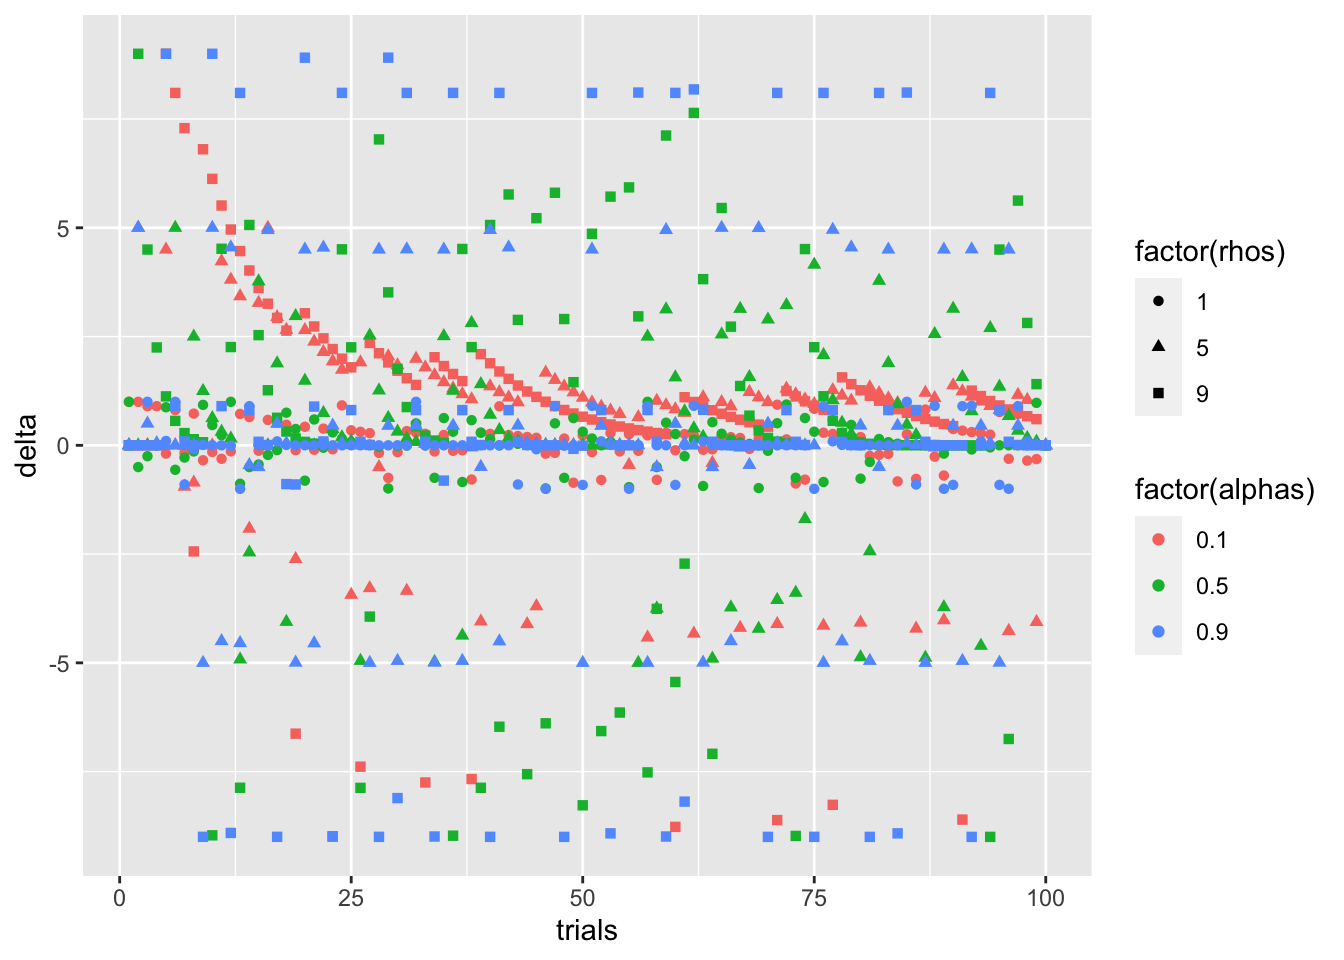
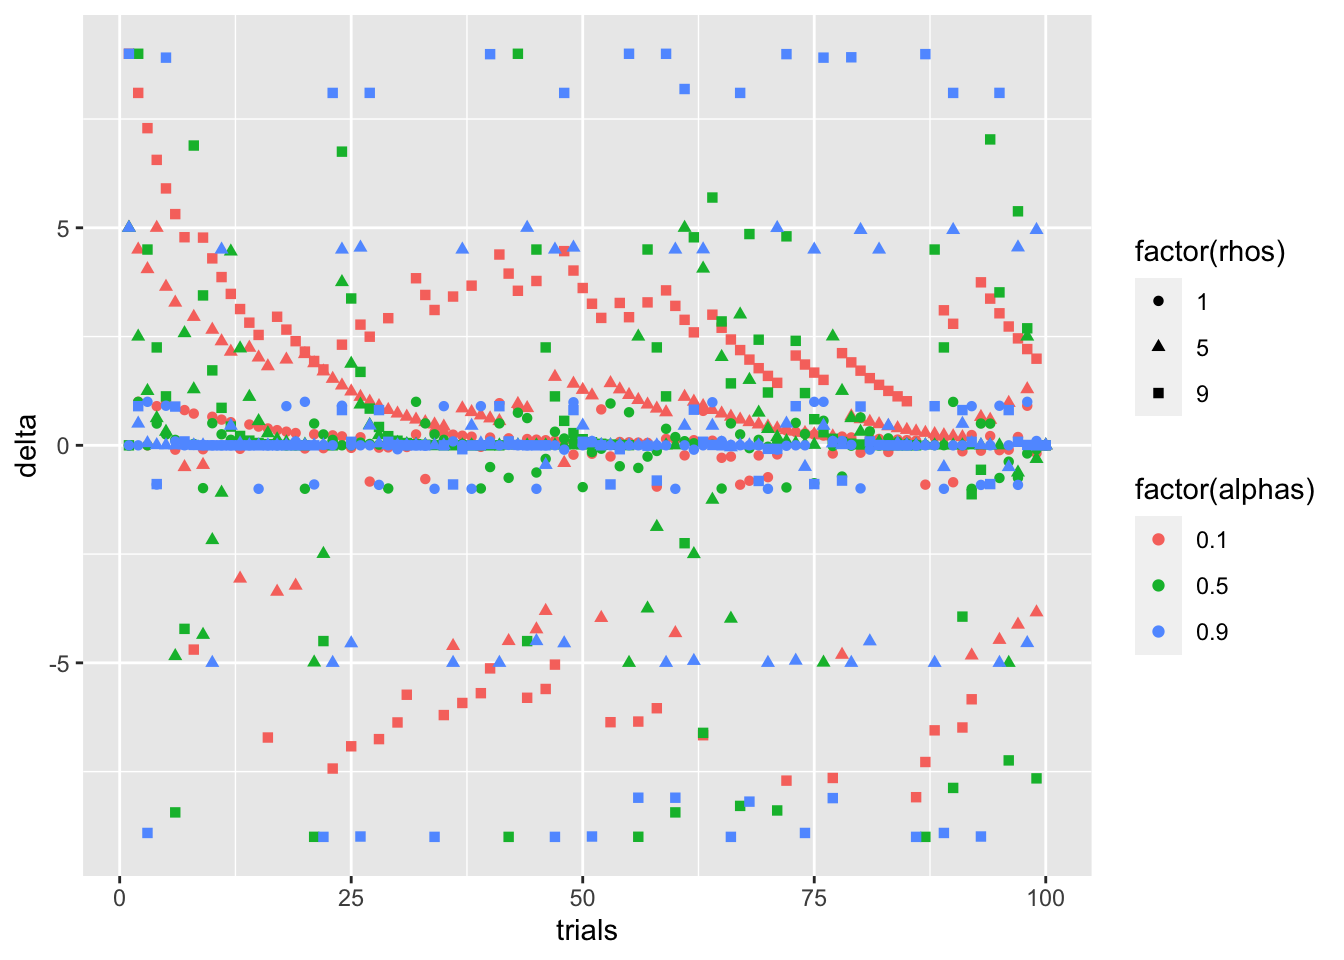
sample_code

diff --git a/docs/post/2022-03-12-/index.html b/docs/post/2022-03-12-/index.html
@@ -132,9 +132,9 @@
 
                   
                   <span class="file-info-divider"></span>
-                  Modified <relative-time datetime="Sat, 12 Mar 2022 17:23:33 &#43;0900"
+                  Modified <relative-time datetime="Mon, 14 Mar 2022 18:03:44 &#43;0900"
                     class="no-wrap">
-                    Sat, 12 Mar 2022 17:23:33 &#43;0900</relative-time>
+                    Mon, 14 Mar 2022 18:03:44 &#43;0900</relative-time>
                   
                 </div>
               </div>
@@ -164,7 +164,7 @@
                         </div>
                       </div>
                     </details-menu>
-                      4365 Words
+                      4471 Words
                     
 
                   </div>
@@ -300,7 +300,9 @@ B_probability &lt;- 0.2</code></pre>
 <div id="パラメータチュニチュニします" class="section level3">
 <h3>パラメータチュニチュニします</h3>
 <p>まずはパラメータをチューニングしていきます。</p>
-<pre class="r"><code>alpha_input &lt;- c(0.1, 0.5, 0.9)
+<pre class="r"><code>## alphaの値を設定する。
+alpha_input &lt;- c(0.1, 0.5, 0.9)
+## rhoの値を設定する。
 rho_input &lt;- c(1, 5, 9)
 
 alpha_length &lt;- length(alpha_input)
@@ -482,10 +484,10 @@ print(all_alphas_color_point)</code></pre>
 <p>記述統計をとってみると、</p>
 <pre class="r"><code>##mean
 with(simulation_DF, tapply(delta, list(rhos, alphas), mean))</code></pre>
-<pre><code>##         0.1        0.5        0.9
-## 1 0.1063440 0.03023908 0.01211121
-## 5 0.4018482 0.09915743 0.05560561
-## 9 0.8458679 0.16593750 0.09999992</code></pre>
+<pre><code>##          0.1         0.5        0.9
+## 1 0.09910012 0.008436569 0.01201011
+## 5 0.38192734 0.078124976 0.05510561
+## 9 0.72081151 0.082177733 0.10098911</code></pre>
 <p>おっと、δの平均値だけ見ると、ρの高さが、δの大きさを予測してなさそうですね。</p>
 <p>ただ、図と合わせてみると、正の値であれ負の値であれδの絶対値の大きさに、ρが効きそうですね。絶対値の大きい正と絶対値の大きい負の値を足し合わせたから、0に近づいちゃったのかもしれません。</p>
 <p>てことで、以下の処理。</p>
@@ -527,13 +529,22 @@ print(only_gain_alphas_color_point)</code></pre>
 <p>ついでに記述統計。</p>
 <pre class="r"><code>##mean
 with(only_gain_trial_simulation_DF, tapply(delta, list(rhos, alphas), mean))</code></pre>
-<pre><code>##         0.1      0.5       0.9
-## 1 0.4169013 0.316427 0.2217453
-## 5 1.5720608 1.183670 1.5822321
-## 9 1.7323303 2.099103 2.3057660</code></pre>
+<pre><code>##         0.1       0.5       0.9
+## 1 0.3239501 0.2647654 0.2413424
+## 5 1.1651199 0.7043983 1.1191400
+## 9 3.0813903 1.6233622 2.1848176</code></pre>
 <p>報酬が得られなかった試行を取り除いたら、つまりδが負になる試行を取り除いたら、全試行では陰に隠れていたρの強烈なδへのパワーが現れましたね。</p>
 <p>報酬感受性ρがδの予測誤差を修飾していることが確認されました。動機づけを生み出すドパミンは、他のパラメータで修飾されているかもしれませんね。気持ちよさ(hedonic)を生み出すモルヒネがドパミンの修飾パラメータだと僕は思いました。まあ強化学習とかQ学習とか数理的な背景は置いておいても、報酬得られた時にその主観的な気持ちよさが大きくなれば、そりゃその行動の動機づけ高まりますよね、多分。そいえば、射精時の主観的な気持ちよさが、オピオイド拮抗薬を入れたら下がったり<span class="citation">(<a href="#ref-Murphy1990" role="doc-biblioref">Murphy et al. 1990</a>)</span>するんで、まあ報酬それ自体の気持ち良さの修飾にオピオイド効いているような気はします。強化学習の報酬の文脈とはズレるけども。</p>
 <p>あと、すっごいどうでもいい後書きなんですけど、αを「あるふぁ」と打って変換で入力していたのですが、いっぱい「あるふぁ」を打っていたら、アルファタウリにF1頑張ってほしいなって思いました。すっごいどうでもいい後書き失礼しました。</p>
+</div>
+<div id="サンプルコード" class="section level2">
+<h2>サンプルコード</h2>
+<p>ここまでチャンクで書いたスクリプトは、<a href="r_script/sample_code.R">こちら</a>からダウンロードできます。</p>
+<p>ρやαの値をいじりたい場合は、</p>
+<pre class="r"><code>rho_input &lt;- c(1, 5, 9)</code></pre>
+<p>と</p>
+<pre class="r"><code>alpha_input &lt;- c(0.1, 0.5, 0.9)</code></pre>
+<p>の値をいじってください。</p>
 </div>
 <div id="引用文献" class="section level2 unnumbered">
 <h2>引用文献</h2>
